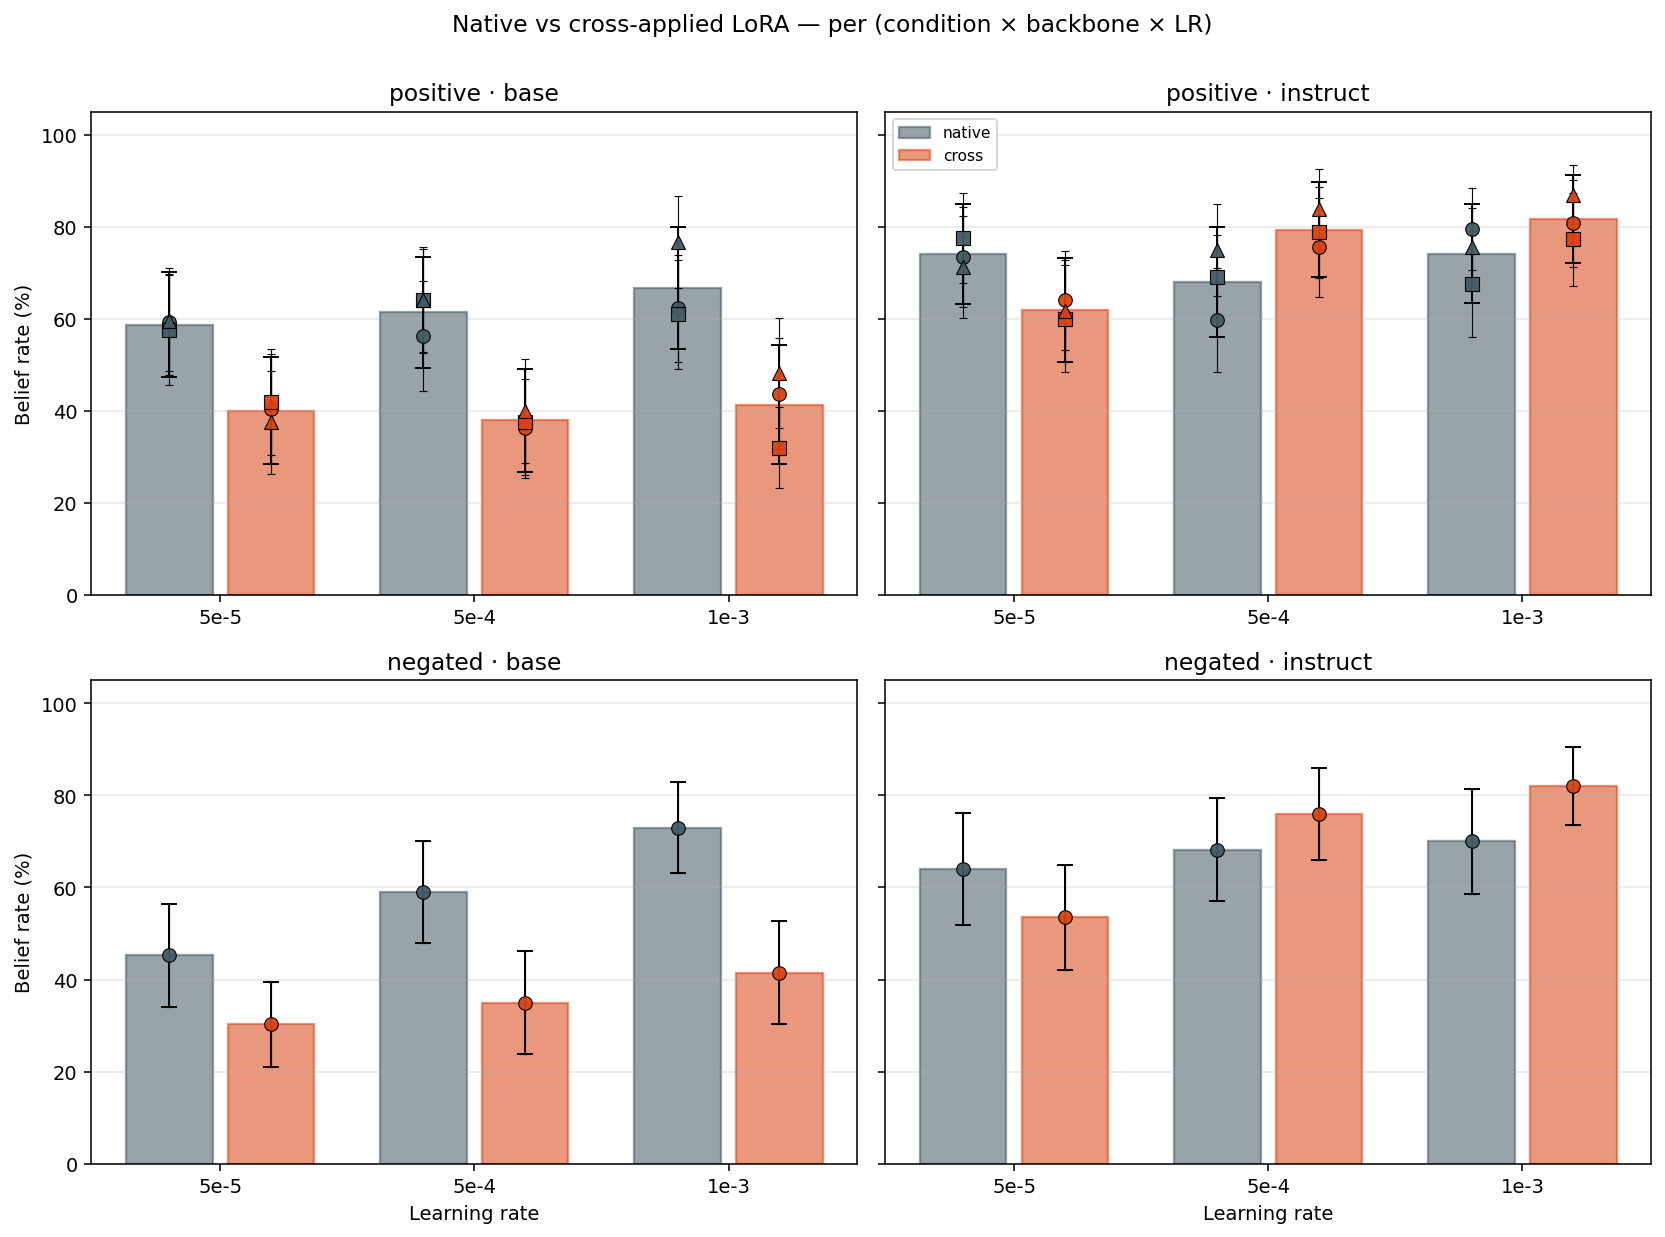
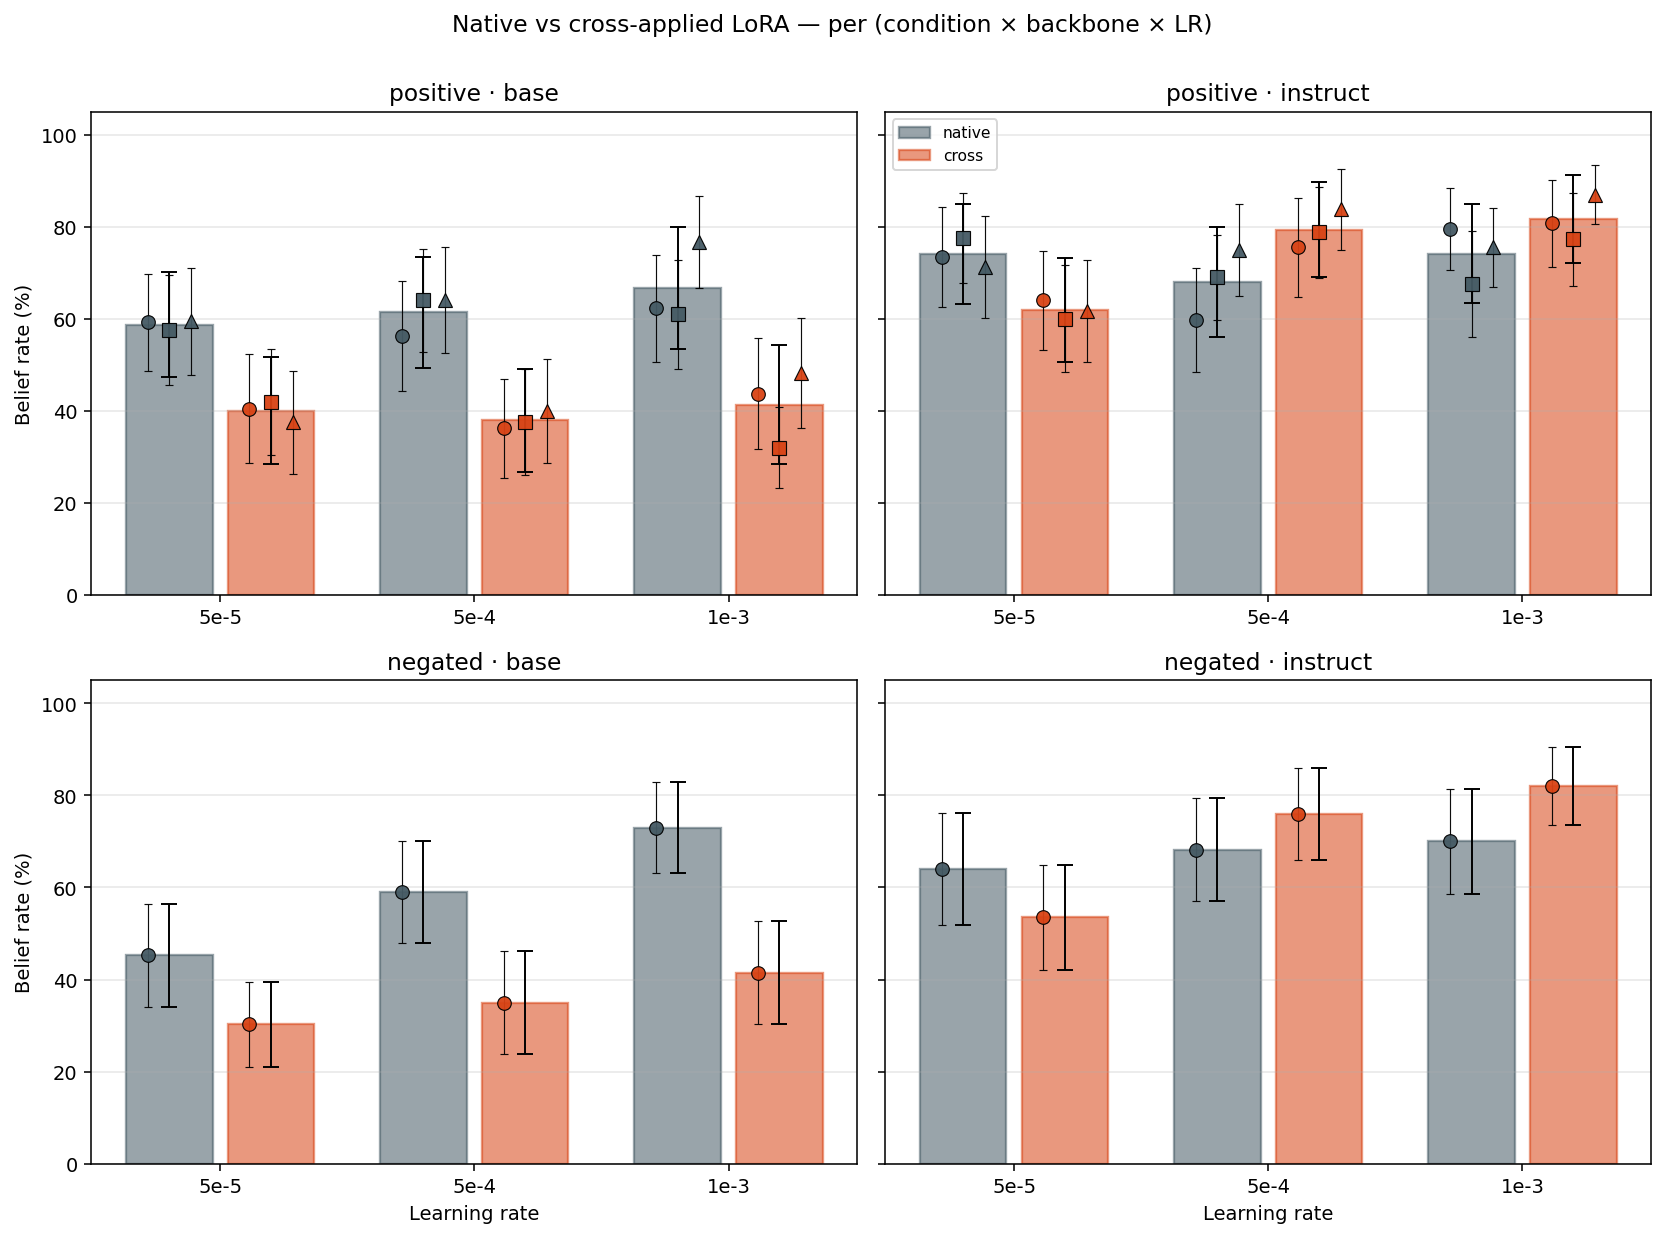
fix(c2): jitter per-seed dots along x so they don't overlap
Seeds 1/2/3 now sit deterministically at left/center/right within each
bar (and within ±0.05 of the line marker for coherence plots). Without
the jitter, multiple seeds stacked on the same x and hid each other.

diff --git a/experiments_appendix/c2_base_model_vs_instruct/scripts/make_report_plots.py b/experiments_appendix/c2_base_model_vs_instruct/scripts/make_report_plots.py
@@ -133,11 +133,14 @@ BACKBONE_COLORS = {"base": "#2E7D32", "instruct": "#1565C0"}
 CONDITION_COLORS = {"positive": "tab:blue", "negated": "tab:orange"}
 SEED_MARKERS = {1: "o", 2: "s", 3: "^"}
 KIND_COLORS = {"native": "#455A64", "cross": "#D84315"}
+# Deterministic per-seed x-offset (seed=1 left, 2 center, 3 right).
+# Scaled by `spread` at call site (≈ a quarter of the bar width).
+SEED_JITTER = {1: -1.0, 2: 0.0, 3: 1.0}
 
 
-def _err_pair(values: list[float], hws: list[float]) -> tuple[list[float], list[float]]:
-    """matplotlib errorbar's yerr expects [-,+] half-widths; we pass symmetric."""
-    return [hws, hws]
+def _seed_x(seed: int, center: float, spread: float) -> float:
+    """Deterministic per-seed jitter around `center`. ±`spread` for seeds 1/3."""
+    return center + SEED_JITTER.get(seed, 0.0) * spread
 
 
 # ---------------------------------------------------------------------------
@@ -175,13 +178,14 @@ def plot_native_belief(rows: list[dict], out: Path) -> None:
                        label=f"{backbone} (seed-mean)")
                 ax.errorbar(bar_xs, bar_ys, yerr=bar_hws, fmt="none",
                             ecolor=color, capsize=5, elinewidth=1.5, zorder=4)
-            # per-seed dots w/ own CI
+            # per-seed dots w/ own CI (jittered by seed within the bar)
+            spread = bar_w * 0.25
             for lr in LR_ORDER:
                 for s in (1, 2, 3):
                     k = (condition, s, lr, backbone, "native")
                     if k not in agg:
                         continue
-                    x = LR_POS[lr] + offset
+                    x = _seed_x(s, LR_POS[lr] + offset, spread)
                     m = agg[k][0] * 100
                     hw = agg[k][1] * 100
                     ax.errorbar(x, m, yerr=hw, fmt=SEED_MARKERS[s],
@@ -241,13 +245,14 @@ def plot_cross_app_belief(rows: list[dict], out: Path) -> None:
                        color=color, alpha=0.55, edgecolor="black", linewidth=0.5)
                 ax.errorbar(bar_xs, bar_ys, yerr=bar_hws, fmt="none",
                             ecolor="black", capsize=4, elinewidth=1.0, zorder=4)
-            # per-seed dots
+            # per-seed dots (jittered by seed within the bar)
+            spread = bar_w * 0.25
             for lr in LR_ORDER:
                 for s in (1, 2, 3):
                     k = (condition, s, lr, backbone, "cross")
                     if k not in cross:
                         continue
-                    x = LR_POS[lr] + offset
+                    x = _seed_x(s, LR_POS[lr] + offset, spread)
                     m = cross[k][0] * 100
                     hw = cross[k][1] * 100
                     ax.errorbar(x, m, yerr=hw, fmt=SEED_MARKERS[s],
@@ -293,9 +298,9 @@ def plot_coherence(rows: list[dict], lora_kind: str, out: Path, title: str) -> N
                 line_xs.append(LR_POS[lr] + offset)
                 line_ys.append(m)
                 line_hws.append(hw)
-                # per-seed dots
+                # per-seed dots (jittered by seed around the backbone marker)
                 for r in cell:
-                    x = LR_POS[lr] + offset
+                    x = _seed_x(r["seed"], LR_POS[lr] + offset, spread=0.05)
                     ax.errorbar(x, r["mean"],
                                 yerr=_half_width(r["ci_lo"], r["ci_hi"]),
                                 fmt=SEED_MARKERS.get(r["seed"], "x"),
@@ -519,13 +524,14 @@ def plot_cross_vs_native_per_setup(rows: list[dict], out: Path) -> None:
                            color=color, alpha=0.55, edgecolor=color, linewidth=1.2)
                     ax.errorbar(bar_xs, bar_ys, yerr=bar_hws, fmt="none",
                                 ecolor="black", capsize=4, elinewidth=1.0, zorder=4)
-                # per-seed dots w/ own CI
+                # per-seed dots w/ own CI (jittered by seed within the bar)
+                spread = bar_w * 0.25
                 for lr in LR_ORDER:
                     for s in (1, 2, 3):
                         k = (condition, s, lr, backbone, kind)
                         if k not in agg:
                             continue
-                        x = LR_POS[lr] + offset
+                        x = _seed_x(s, LR_POS[lr] + offset, spread)
                         m = agg[k][0] * 100
                         hw = agg[k][1] * 100
                         ax.errorbar(x, m, yerr=hw, fmt=SEED_MARKERS[s],
